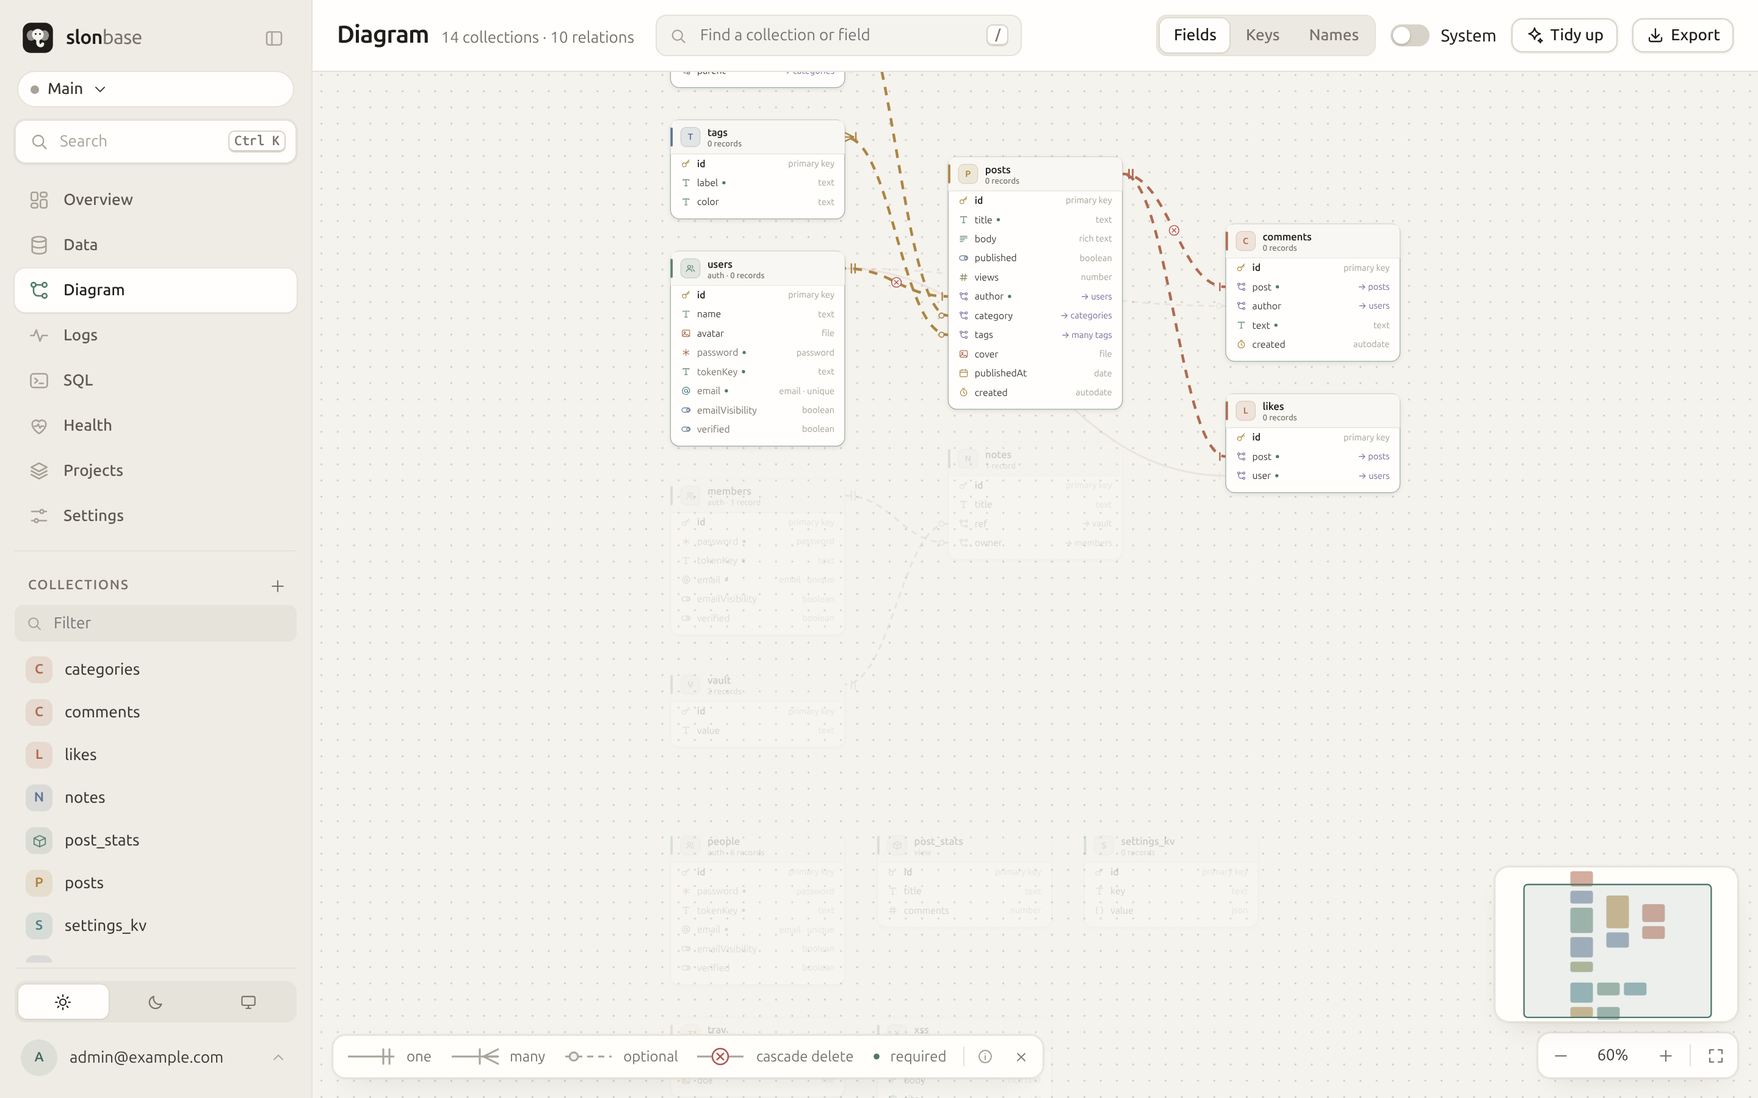
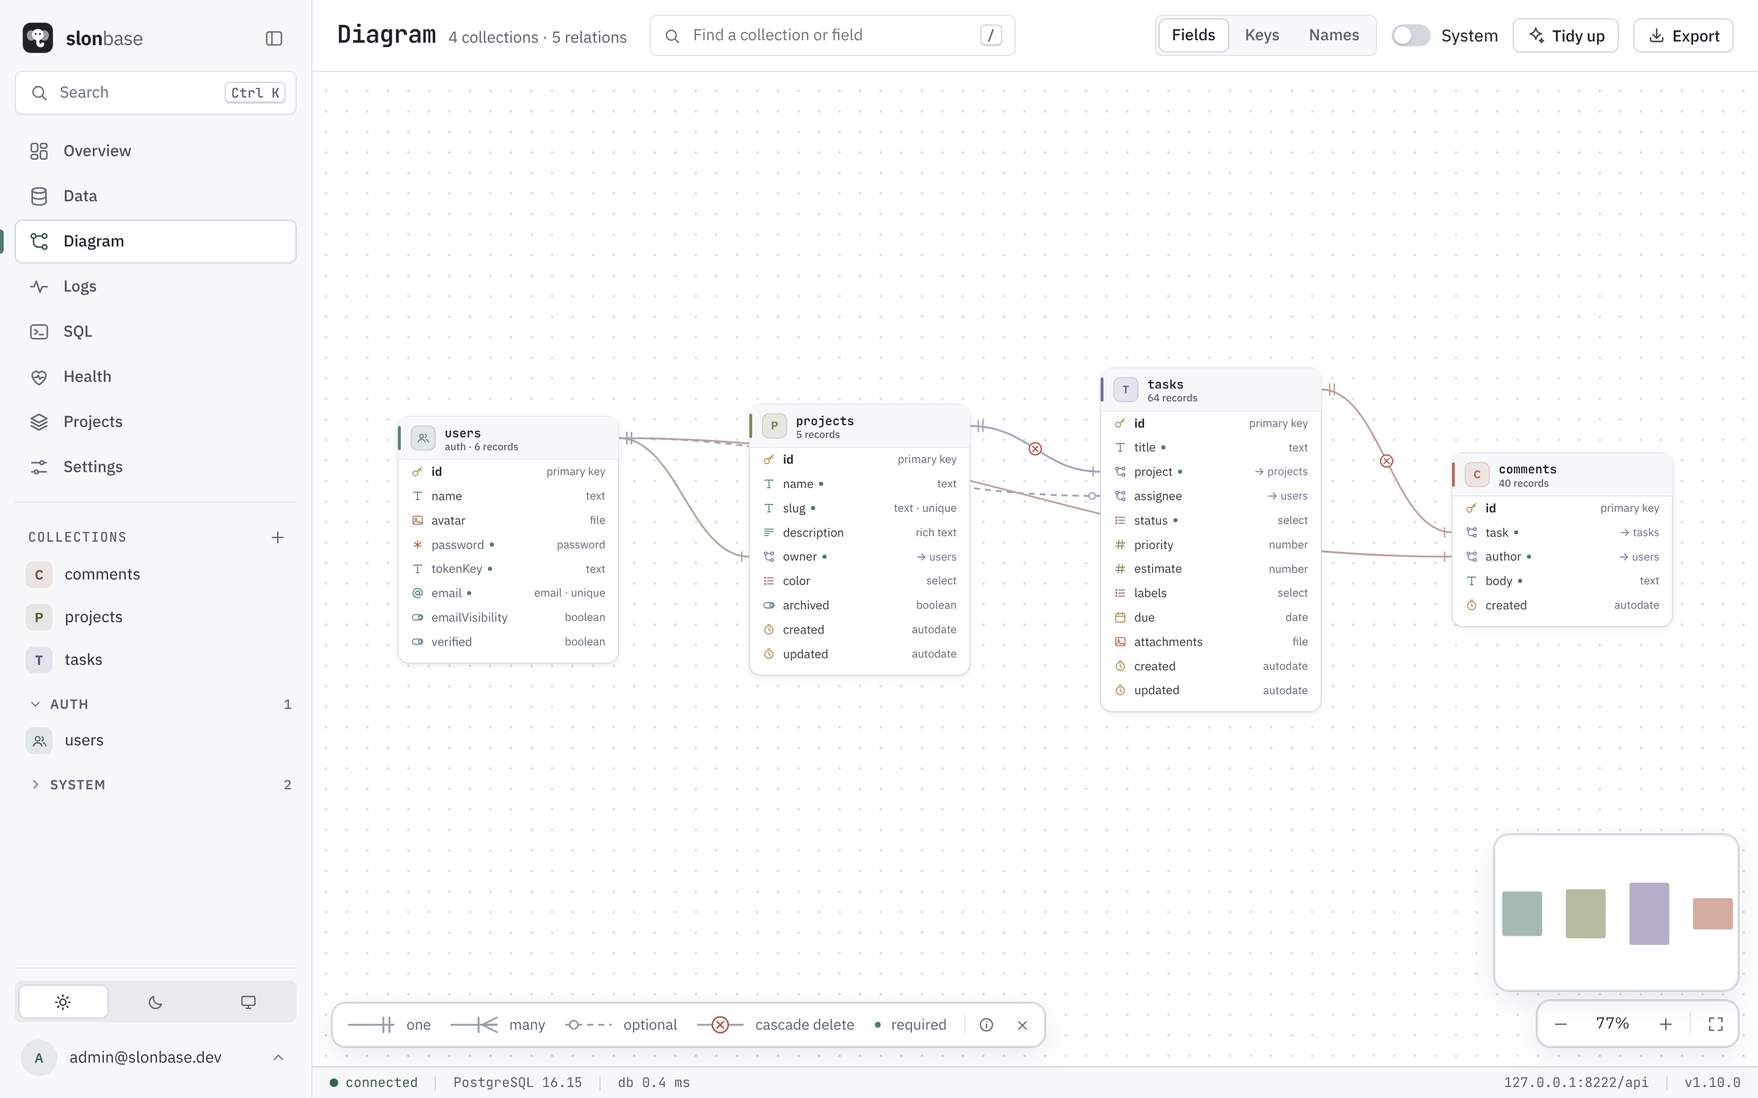
1.10.0: changelog, version, screenshots, docs and site fonts
The documentation site and the project page load IBM Plex Sans and
JetBrains Mono from the dashboard's fonts (the docs build copied the
removed Ubuntu Sans files). README screenshots retaken on the demo
data; check baselines regenerated (the status bar shows the version).

Claude-Session: https://claude.ai/code/session_01J5ESpfPVgGTCVn1d6s44fR

diff --git a/site/index.html b/site/index.html
@@ -8,7 +8,7 @@
 <meta name="theme-color" content="#f5f3ee" media="(prefers-color-scheme: light)">
 <meta name="theme-color" content="#141413" media="(prefers-color-scheme: dark)">
 <link rel="icon" href="assets/logo.svg" type="image/svg+xml">
-<link rel="preload" href="assets/fonts/ubuntu-sans-latin.woff2" as="font" type="font/woff2" crossorigin>
+<link rel="preload" href="assets/fonts/ibm-plex-sans-latin.woff2" as="font" type="font/woff2" crossorigin>
 <meta property="og:type" content="website">
 <meta property="og:title" content="slonbase: your whole backend, built on PostgreSQL">
 <meta property="og:description" content="An open-source backend in one Rust binary: collections, a REST and realtime API, auth, files, hooks and an admin dashboard, on PostgreSQL.">
@@ -16,11 +16,11 @@
 <meta property="og:url" content="https://ayeshrodz.github.io/slonbase/">
 <meta name="twitter:card" content="summary_large_image">
 <style>
-/* Ubuntu Sans and Ubuntu Sans Mono (Ubuntu Font Licence), as in the dashboard and the docs */
-@font-face { font-family: "Ubuntu Sans Variable"; font-style: normal; font-display: swap; font-weight: 100 800; src: url("assets/fonts/ubuntu-sans-latin.woff2") format("woff2"); unicode-range: U+0000-00FF, U+0131, U+0152-0153, U+02BB-02BC, U+02C6, U+02DA, U+02DC, U+0304, U+0308, U+0329, U+2000-206F, U+20AC, U+2122, U+2191, U+2193, U+2212, U+2215, U+FEFF, U+FFFD; }
-@font-face { font-family: "Ubuntu Sans Variable"; font-style: normal; font-display: swap; font-weight: 100 800; src: url("assets/fonts/ubuntu-sans-latin-ext.woff2") format("woff2"); unicode-range: U+0100-02BA, U+02BD-02C5, U+02C7-02CC, U+02CE-02D7, U+02DD-02FF, U+0304, U+0308, U+0329, U+1D00-1DBF, U+1E00-1E9F, U+1EF2-1EFF, U+2020, U+20A0-20AB, U+20AD-20C0, U+2113, U+2C60-2C7F, U+A720-A7FF; }
-@font-face { font-family: "Ubuntu Sans Mono Variable"; font-style: normal; font-display: swap; font-weight: 400 700; src: url("assets/fonts/ubuntu-sans-mono-latin.woff2") format("woff2"); unicode-range: U+0000-00FF, U+0131, U+0152-0153, U+02BB-02BC, U+02C6, U+02DA, U+02DC, U+0304, U+0308, U+0329, U+2000-206F, U+20AC, U+2122, U+2191, U+2193, U+2212, U+2215, U+FEFF, U+FFFD; }
-@font-face { font-family: "Ubuntu Sans Mono Variable"; font-style: normal; font-display: swap; font-weight: 400 700; src: url("assets/fonts/ubuntu-sans-mono-latin-ext.woff2") format("woff2"); unicode-range: U+0100-02BA, U+02BD-02C5, U+02C7-02CC, U+02CE-02D7, U+02DD-02FF, U+0304, U+0308, U+0329, U+1D00-1DBF, U+1E00-1E9F, U+1EF2-1EFF, U+2020, U+20A0-20AB, U+20AD-20C0, U+2113, U+2C60-2C7F, U+A720-A7FF; }
+/* IBM Plex Sans and JetBrains Mono (SIL Open Font License), as in the dashboard and the docs */
+@font-face { font-family: "IBM Plex Sans"; font-style: normal; font-display: swap; font-weight: 100 700; font-stretch: 75% 100%; src: url("assets/fonts/ibm-plex-sans-latin.woff2") format("woff2"); unicode-range: U+0000-00FF, U+0131, U+0152-0153, U+02BB-02BC, U+02C6, U+02DA, U+02DC, U+0304, U+0308, U+0329, U+2000-206F, U+20AC, U+2122, U+2191, U+2193, U+2212, U+2215, U+FEFF, U+FFFD; }
+@font-face { font-family: "IBM Plex Sans"; font-style: normal; font-display: swap; font-weight: 100 700; font-stretch: 75% 100%; src: url("assets/fonts/ibm-plex-sans-latin-ext.woff2") format("woff2"); unicode-range: U+0100-02BA, U+02BD-02C5, U+02C7-02CC, U+02CE-02D7, U+02DD-02FF, U+0304, U+0308, U+0329, U+1D00-1DBF, U+1E00-1E9F, U+1EF2-1EFF, U+2020, U+20A0-20AB, U+20AD-20C0, U+2113, U+2C60-2C7F, U+A720-A7FF; }
+@font-face { font-family: "JetBrains Mono"; font-style: normal; font-display: swap; font-weight: 100 800; src: url("assets/fonts/jetbrains-mono-latin.woff2") format("woff2"); unicode-range: U+0000-00FF, U+0131, U+0152-0153, U+02BB-02BC, U+02C6, U+02DA, U+02DC, U+0304, U+0308, U+0329, U+2000-206F, U+20AC, U+2122, U+2191, U+2193, U+2212, U+2215, U+FEFF, U+FFFD; }
+@font-face { font-family: "JetBrains Mono"; font-style: normal; font-display: swap; font-weight: 100 800; src: url("assets/fonts/jetbrains-mono-latin-ext.woff2") format("woff2"); unicode-range: U+0100-02BA, U+02BD-02C5, U+02C7-02CC, U+02CE-02D7, U+02DD-02FF, U+0304, U+0308, U+0329, U+1D00-1DBF, U+1E00-1E9F, U+1EF2-1EFF, U+2020, U+20A0-20AB, U+20AD-20C0, U+2113, U+2C60-2C7F, U+A720-A7FF; }
 :root {
   --bg: #f5f3ee;
   --bg-soft: #ece9e2;
@@ -38,8 +38,8 @@
   --code-ink: #edebe6;
   --shadow: 0 1px 2px rgba(60, 48, 28, .05), 0 12px 32px -14px rgba(60, 48, 28, .22);
   --radius: 14px;
-  --font: "Ubuntu Sans Variable", "Ubuntu Sans", "Ubuntu", -apple-system, BlinkMacSystemFont, "Segoe UI", Roboto, Helvetica, Arial, sans-serif;
-  --mono: "Ubuntu Sans Mono Variable", "Ubuntu Sans Mono", "Ubuntu Mono", ui-monospace, SFMono-Regular, Menlo, Consolas, monospace;
+  --font: "IBM Plex Sans", ui-sans-serif, system-ui, -apple-system, "Segoe UI", Roboto, sans-serif;
+  --mono: "JetBrains Mono", ui-monospace, "SF Mono", Menlo, Consolas, monospace;
   color-scheme: light;
 }
 :root[data-theme="dark"] {
@@ -365,7 +365,7 @@ footer { border-top: 1px solid var(--line); padding: 56px 0 64px; margin-top: 96
 <div class="hero">
   <div class="wrap">
     <a class="pill" id="release-pill" href="https://github.com/ayeshrodz/slonbase/releases/latest">
-      <b id="pill-version">v1.9.0</b><span id="pill-title">Closer to PocketBase, and checked against it</span><span class="arrow">→</span>
+      <b id="pill-version">v1.10.0</b><span id="pill-title">A dashboard that looks like the developer tool it is</span><span class="arrow">→</span>
     </a>
     <h1>Your whole backend,<br>built on <span class="pg">PostgreSQL.</span></h1>
     <p class="lede">Collections, a REST and realtime API, auth, files, hooks and an admin dashboard, in one Rust binary. Every collection is a real PostgreSQL table, and every server you add shares it.</p>
@@ -710,18 +710,18 @@ pb.<span class="f">collection</span>(<span class="s">"posts"</span>).<span class
     <h2>The latest release.</h2>
     <div class="release">
       <div class="rel-head reveal">
-        <div class="ver" id="rel-version">v1.9.0</div>
-        <div class="date" id="rel-date">November 4, 2026</div>
-        <p id="rel-summary">View fields copied from their source collections, as PocketBase makes them, and view records' files served; VK, the last of PocketBase's sign-in presets; six answers that differed from PocketBase's now match; cheaper health checks and single-record reads; and a dashboard that passes an accessibility check, kept in CI with screenshot comparisons.</p>
+        <div class="ver" id="rel-version">v1.10.0</div>
+        <div class="date" id="rel-date">November 5, 2026</div>
+        <p id="rel-summary">The dashboard redesigned as a developer tool: IBM Plex Sans and JetBrains Mono with condensed capitals for titles, a status bar with the connection, database and API base, the API URL on the overview, neutral GitHub-like colours, flat buttons and far less motion. Since 1.9: view fields copied from their sources, VK sign-in, cheaper health checks and reads.</p></p>
         <a class="btn secondary" id="rel-link" href="https://github.com/ayeshrodz/slonbase/releases/latest">Release notes →</a>
       </div>
       <ul class="rel-list reveal" id="rel-items">
-        <li>View fields copied from their sources</li>
-        <li>Files of view records</li>
-        <li>Sign in with VK</li>
-        <li>Cheaper health checks and record reads</li>
-        <li>Accessible dashboard, checked in CI</li>
-        <li>Six answers now as PocketBase's</li>
+        <li>IBM Plex Sans and JetBrains Mono</li>
+        <li>A status bar, as in an editor</li>
+        <li>The API URL on the overview</li>
+        <li>Neutral, GitHub-like light and dark</li>
+        <li>Flat buttons, far less motion</li>
+        <li>View fields copied from sources (1.9.0)</li>
       </ul>
     </div>
   </div>
@@ -756,8 +756,8 @@ sudo journalctl -u slonbase | grep "setup?token"</pre>
 <pre role="tabpanel" id="in-dnf" aria-labelledby="t-dnf" hidden>sudo curl -fsSL -o /etc/yum.repos.d/slonbase.repo https://ayeshrodz.github.io/slonbase/slonbase.repo
 sudo dnf install slonbase
 sudo journalctl -u slonbase | grep "setup?token"</pre>
-<pre role="tabpanel" id="in-bin" aria-labelledby="t-bin" hidden><span id="bin-cmd">curl -fsSLO https://github.com/ayeshrodz/slonbase/releases/download/v1.9.0/slonbase-1.9.0-linux-amd64.tar.gz
-tar xzf slonbase-1.9.0-linux-amd64.tar.gz
+<pre role="tabpanel" id="in-bin" aria-labelledby="t-bin" hidden><span id="bin-cmd">curl -fsSLO https://github.com/ayeshrodz/slonbase/releases/download/v1.10.0/slonbase-1.10.0-linux-amd64.tar.gz
+tar xzf slonbase-1.10.0-linux-amd64.tar.gz
 ./slonbase serve</span>    <span class="cm"># prints the setup link</span></pre>
 <pre role="tabpanel" id="in-pb" aria-labelledby="t-pb" hidden><span class="cm"># collections, records, password hashes, files and settings, from pb_data or a backup zip</span>
 slonbase setup --database-url "postgres://..." --email you@example.com --password '...'

diff --git a/scripts/docs/docs.css b/scripts/docs/docs.css
@@ -2,35 +2,37 @@
    dashboard's fonts, and type set for reading. */
 
 @font-face {
-  font-family: "Ubuntu Sans Variable";
+  font-family: "IBM Plex Sans";
   font-style: normal;
   font-display: swap;
-  font-weight: 100 800;
-  src: url("fonts/ubuntu-sans-latin.woff2") format("woff2");
+  font-weight: 100 700;
+  font-stretch: 75% 100%;
+  src: url("fonts/ibm-plex-sans-latin.woff2") format("woff2");
   unicode-range: U+0000-00FF, U+0131, U+0152-0153, U+02BB-02BC, U+02C6, U+02DA, U+02DC, U+0304, U+0308, U+0329, U+2000-206F, U+20AC, U+2122, U+2191, U+2193, U+2212, U+2215, U+FEFF, U+FFFD;
 }
 @font-face {
-  font-family: "Ubuntu Sans Variable";
+  font-family: "IBM Plex Sans";
   font-style: normal;
   font-display: swap;
-  font-weight: 100 800;
-  src: url("fonts/ubuntu-sans-latin-ext.woff2") format("woff2");
+  font-weight: 100 700;
+  font-stretch: 75% 100%;
+  src: url("fonts/ibm-plex-sans-latin-ext.woff2") format("woff2");
   unicode-range: U+0100-02BA, U+02BD-02C5, U+02C7-02CC, U+02CE-02D7, U+02DD-02FF, U+0304, U+0308, U+0329, U+1D00-1DBF, U+1E00-1E9F, U+1EF2-1EFF, U+2020, U+20A0-20AB, U+20AD-20C0, U+2113, U+2C60-2C7F, U+A720-A7FF;
 }
 @font-face {
-  font-family: "Ubuntu Sans Mono Variable";
+  font-family: "JetBrains Mono";
   font-style: normal;
   font-display: swap;
-  font-weight: 400 700;
-  src: url("fonts/ubuntu-sans-mono-latin.woff2") format("woff2");
+  font-weight: 100 800;
+  src: url("fonts/jetbrains-mono-latin.woff2") format("woff2");
   unicode-range: U+0000-00FF, U+0131, U+0152-0153, U+02BB-02BC, U+02C6, U+02DA, U+02DC, U+0304, U+0308, U+0329, U+2000-206F, U+20AC, U+2122, U+2191, U+2193, U+2212, U+2215, U+FEFF, U+FFFD;
 }
 @font-face {
-  font-family: "Ubuntu Sans Mono Variable";
+  font-family: "JetBrains Mono";
   font-style: normal;
   font-display: swap;
-  font-weight: 400 700;
-  src: url("fonts/ubuntu-sans-mono-latin-ext.woff2") format("woff2");
+  font-weight: 100 800;
+  src: url("fonts/jetbrains-mono-latin-ext.woff2") format("woff2");
   unicode-range: U+0100-02BA, U+02BD-02C5, U+02C7-02CC, U+02CE-02D7, U+02DD-02FF, U+0304, U+0308, U+0329, U+1D00-1DBF, U+1E00-1E9F, U+1EF2-1EFF, U+2020, U+20A0-20AB, U+20AD-20C0, U+2113, U+2C60-2C7F, U+A720-A7FF;
 }
 
@@ -54,8 +56,8 @@
   --inline-code: #ece9e2;
   --shadow: 0 1px 2px rgba(60, 48, 28, 0.05), 0 12px 32px -14px rgba(60, 48, 28, 0.22);
   --shadow-lg: 0 28px 70px -24px rgba(50, 40, 22, 0.32), 0 2px 8px rgba(50, 40, 22, 0.06);
-  --font: "Ubuntu Sans Variable", "Ubuntu Sans", "Ubuntu", ui-sans-serif, system-ui, -apple-system, "Segoe UI", Roboto, sans-serif;
-  --mono: "Ubuntu Sans Mono Variable", "Ubuntu Sans Mono", "Ubuntu Mono", ui-monospace, "SF Mono", Menlo, Consolas, monospace;
+  --font: "IBM Plex Sans", ui-sans-serif, system-ui, -apple-system, "Segoe UI", Roboto, sans-serif;
+  --mono: "JetBrains Mono", ui-monospace, "SF Mono", Menlo, Consolas, monospace;
   --ease: cubic-bezier(0.22, 1, 0.36, 1);
   --spring: cubic-bezier(0.34, 1.22, 0.64, 1);
   --top: 60px;

diff --git a/scripts/social-preview.html b/scripts/social-preview.html
@@ -2,7 +2,7 @@
 <!-- The social preview (docs/assets/social-preview.png): open at 1280×640 and take a screenshot,
      e.g. with Playwright: page.setViewportSize({width: 1280, height: 640}). -->
 <style>
-@font-face { font-family: U; font-weight: 100 800; src: url(../ui/app/fonts/ubuntu-sans-latin.woff2) format("woff2"); }
+@font-face { font-family: U; font-weight: 100 800; src: url(../ui/app/fonts/ibm-plex-sans-latin.woff2) format("woff2"); }
 html, body { margin: 0; width: 1280px; height: 640px; overflow: hidden; background: #f5f5f3; font-family: U; color: #1b1b1e; }
 .left { position: absolute; left: 86px; top: 104px; }
 .brand { display: flex; align-items: center; gap: 30px; }

diff --git a/README.md b/README.md
@@ -37,6 +37,15 @@
   <sub>A JavaScript client creating and updating a task. The dashboard's grid is live: realtime events arrive as the code runs.</sub>
 </p>
 
+## New in 1.10
+
+- 🛠 **A dashboard that looks like a developer tool**: IBM Plex Sans for the interface,
+  condensed capitals for titles, JetBrains Mono for ids, labels, figures and code.
+- 📟 **A status bar** with the connection, PostgreSQL version and round trip, API base and
+  version, and the API URL ready to copy on the overview.
+- 🌗 **Neutral, GitHub-like colours** in light and dark, flat buttons, and only the motion that
+  tells you something changed.
+
 ## New in 1.9
 
 - 🧬 **View fields copied from their sources**, as PocketBase makes them: selects keep their
@@ -59,23 +68,6 @@
   with PostgreSQL's safe defaults ([benchmarks](bench/README.md)).
 - 🌙 **Cheaper when idle**: each instance checks the outbox every 5 s instead of every 500 ms
   while nothing happens.
-
-## New in 1.7
-
-The biggest release since 1.0 ([changelog](CHANGELOG.md)):
-
-- 🎨 **A redesigned dashboard.** One sidebar for sections, collections, theme and account; a
-  warm, muted palette in light and dark; records edited in a drawer beside the list; an overview
-  with the day's traffic and a health checklist.
-- ✍ **Writes that don't wait in line.** Realtime no longer sends a notification inside every
-  write transaction, which made PostgreSQL commit them one at a time: creating records is
-  1.6 times as fast as in 1.6 ([benchmarks](bench/README.md)).
-- 🗜 **Compressed answers.** gzip for JSON, a sixth of the bytes for a page of records, and
-  never for answers that carry a token.
-- 👀 **Live previews for view collections.** The fields and first rows of a view's query as
-  you type it, before you save it.
-- 🧪 **Checked against PocketBase on every push.** A differential runner sends PocketBase and
-  slonbase the same requests and fails CI on any difference.
 
 ## Why slonbase
 
@@ -225,9 +217,9 @@ const posts = await pb.collection("posts").getList(1, 20, { filter: 'published =
 <picture><source media="(prefers-color-scheme: dark)" srcset="docs/assets/screenshots/diagram-dark.png"><img alt="The schema diagram: every collection with its fields, and its relations" src="docs/assets/screenshots/diagram-light.png"></picture>
 <p align="center"><sub>The schema diagram, drawn from the collections: hover one to follow its relations.</sub></p>
 
-Redesigned in 1.7: the sidebar holds the sections and your collections, records open in a
-drawer beside the grid, and the palette is warm and muted in light and dark (or follows your
-system). It works on phones, ⌘K / Ctrl K jumps anywhere, and it only uses the public API, so
+The sidebar holds the sections and your collections, records open in a drawer beside the
+grid, and a status bar shows the connection, database and API base; light and dark follow
+GitHub's neutral palette (or your system). It works on phones, ⌘K / Ctrl K jumps anywhere, and it only uses the public API, so
 anything it does, you can script too.
 
 ## Documentation

diff --git a/docs/installation.md b/docs/installation.md
@@ -35,7 +35,7 @@ Open the printed link (the token in it is required) to create the first superuse
 two volumes: `pgdata` (the database) and `slonbase_data` (`/data`: files, backups, hooks and the
 config file).
 
-`SLONBASE_VERSION` in `.env` pins a release (`1.9.0`); the default is `latest`. When the image
+`SLONBASE_VERSION` in `.env` pins a release (`1.10.0`); the default is `latest`. When the image
 can't be pulled, or with `docker compose up --build`, Compose builds it from a checkout of the
 repository (run it there).
 
@@ -48,7 +48,7 @@ and has a health check (`slonbase health`).
 ```sh
 docker run -d --name slonbase -p 8090:8090 -v slonbase_data:/data \
   -e SLONBASE_DATABASE_URL='postgres://user:pass@db.example.com:5432/app?sslmode=require' \
-  ghcr.io/ayeshrodz/slonbase:1.9.0
+  ghcr.io/ayeshrodz/slonbase:1.10.0
 docker logs slonbase 2>&1 | grep "setup?token"
 ```
 
@@ -85,8 +85,8 @@ instead, download the `.deb` or `.rpm` for your architecture from the
 
 ```sh
 sha256sum --ignore-missing -c SHA256SUMS
-sudo apt install ./slonbase_1.9.0_amd64.deb          # Debian, Ubuntu
-sudo dnf install ./slonbase-1.9.0-1.x86_64.rpm       # Fedora, RHEL, Rocky, Alma
+sudo apt install ./slonbase_1.10.0_amd64.deb          # Debian, Ubuntu
+sudo dnf install ./slonbase-1.10.0-1.x86_64.rpm       # Fedora, RHEL, Rocky, Alma
 sudo journalctl -u slonbase | grep "setup?token"     # the one-time setup link
 ```
 
@@ -118,8 +118,8 @@ and enter `postgres://slonbase:change-me@127.0.0.1:5432/slonbase` in the wizard.
 ## Plain binary
 
 ```sh
-curl -LO https://github.com/ayeshrodz/slonbase/releases/download/v1.9.0/slonbase-1.9.0-linux-amd64.tar.gz
-tar xzf slonbase-1.9.0-linux-amd64.tar.gz
+curl -LO https://github.com/ayeshrodz/slonbase/releases/download/v1.10.0/slonbase-1.10.0-linux-amd64.tar.gz
+tar xzf slonbase-1.10.0-linux-amd64.tar.gz
 ./slonbase serve      # starts in setup mode and prints the setup link
 ```
 

diff --git a/CHANGELOG.md b/CHANGELOG.md
@@ -8,6 +8,12 @@ changes, listed in its **Upgrading** section.
 
 ## [Unreleased]
 
+## [1.10.0] - 2026-11-05
+
+**A dashboard that looks like the developer tool it is.** New type (IBM Plex Sans and
+JetBrains Mono, with condensed capitals for titles), a status bar, the API URL on the
+overview, neutral GitHub-like colours, flat buttons and far less motion.
+
 ### Changed
 
 - **The dashboard, redesigned as a developer tool.**
@@ -30,6 +36,8 @@ changes, listed in its **Upgrading** section.
     still fade in briefly, and a changed row still flashes.
   - Still no serious or critical axe (WCAG 2 AA) violation on any checked screen, in either
     theme.
+  - The documentation site and the project page use the same fonts, and the README's
+    screenshots show the new dashboard.
 
 ## [1.9.0] - 2026-11-04
 
@@ -1001,7 +1009,8 @@ The first release: a PocketBase-compatible backend on PostgreSQL.
   PocketBase 0.40.5 in CI.
 - Benchmarks against PocketBase are in [bench/README.md](https://github.com/ayeshrodz/slonbase/blob/main/bench/README.md).
 
-[Unreleased]: https://github.com/ayeshrodz/slonbase/compare/v1.9.0...HEAD
+[Unreleased]: https://github.com/ayeshrodz/slonbase/compare/v1.10.0...HEAD
+[1.10.0]: https://github.com/ayeshrodz/slonbase/compare/v1.9.0...v1.10.0
 [1.9.0]: https://github.com/ayeshrodz/slonbase/compare/v1.8.0...v1.9.0
 [1.8.0]: https://github.com/ayeshrodz/slonbase/compare/v1.7.0...v1.8.0
 [1.7.0]: https://github.com/ayeshrodz/slonbase/compare/v1.6.0...v1.7.0

diff --git a/docs/design.md b/docs/design.md
@@ -1243,5 +1243,7 @@ project's, in one transaction each.
     files served), as PocketBase does; the VK provider, the last PocketBase preset; the
     differential runner over auth flows, batch requests and error codes; and accessibility and
     screenshot checks of the dashboard in CI.
-15. **Next:** the differential runner over file uploads and realtime events, and the remaining
+15. **1.10** (done): the dashboard redesigned as a developer tool: IBM Plex Sans and JetBrains
+    Mono, a status bar, neutral GitHub-like colours, flat buttons and far less motion.
+16. **Next:** the differential runner over file uploads and realtime events, and the remaining
     per-request overhead on lists.

diff --git a/docs/platforms.md b/docs/platforms.md
@@ -10,7 +10,7 @@ use the [image](installation.md#docker) from `ghcr.io/ayeshrodz/slonbase`.
 - [Dokploy](#dokploy)
 - [After the first deploy](#after-the-first-deploy)
 
-The templates use the `latest` image. To control upgrades, pin a release (`:1.9.0`) instead.
+The templates use the `latest` image. To control upgrades, pin a release (`:1.10.0`) instead.
 
 **Disks owned by root.** Render, Railway and Fly.io mount their disks at `/data` owned by root.
 The image runs as an unprivileged user, which can start but can't write files there, so file

diff --git a/docs/deployment.md b/docs/deployment.md
@@ -89,7 +89,7 @@ keep that ownership. A disk or bind mount owned by root doesn't: slonbase starts
 uploads fail with "Permission denied". `chown 65532:65532` the directory, or run the container as
 root, as the [platform setups](platforms.md) do. Its health check
 (`slonbase health`) fails while the server starts or can't reach the database. Pin a version tag
-(`ghcr.io/ayeshrodz/slonbase:1.9.0`) rather than `latest` in production.
+(`ghcr.io/ayeshrodz/slonbase:1.10.0`) rather than `latest` in production.
 
 ## PostgreSQL
 

diff --git a/SECURITY.md b/SECURITY.md
@@ -8,7 +8,8 @@ to the latest before reporting, if you can.
 
 | Version | Supported |
 |---|---|
-| 1.9.x | ✅ |
+| 1.10.x | ✅ |
+| 1.9.x | ✅ until three months after 1.10.0 (February 5, 2027) |
 | 1.8.x | ✅ until three months after 1.9.0 (February 4, 2027) |
 | 1.7.x | ✅ until three months after 1.8.0 (February 3, 2027) |
 | 1.6.x | ✅ until three months after 1.7.0 (February 3, 2027) |

diff --git a/docs/extending.md b/docs/extending.md
@@ -206,7 +206,7 @@ crate that depends on slonbase and runs its command line from your own `main`:
 
 ```toml
 [dependencies]
-slonbase = { git = "https://github.com/ayeshrodz/slonbase", tag = "v1.9.0" }
+slonbase = { git = "https://github.com/ayeshrodz/slonbase", tag = "v1.10.0" }
 axum = "0.8"
 serde_json = "1"
 tokio = { version = "1", features = ["full"] }
